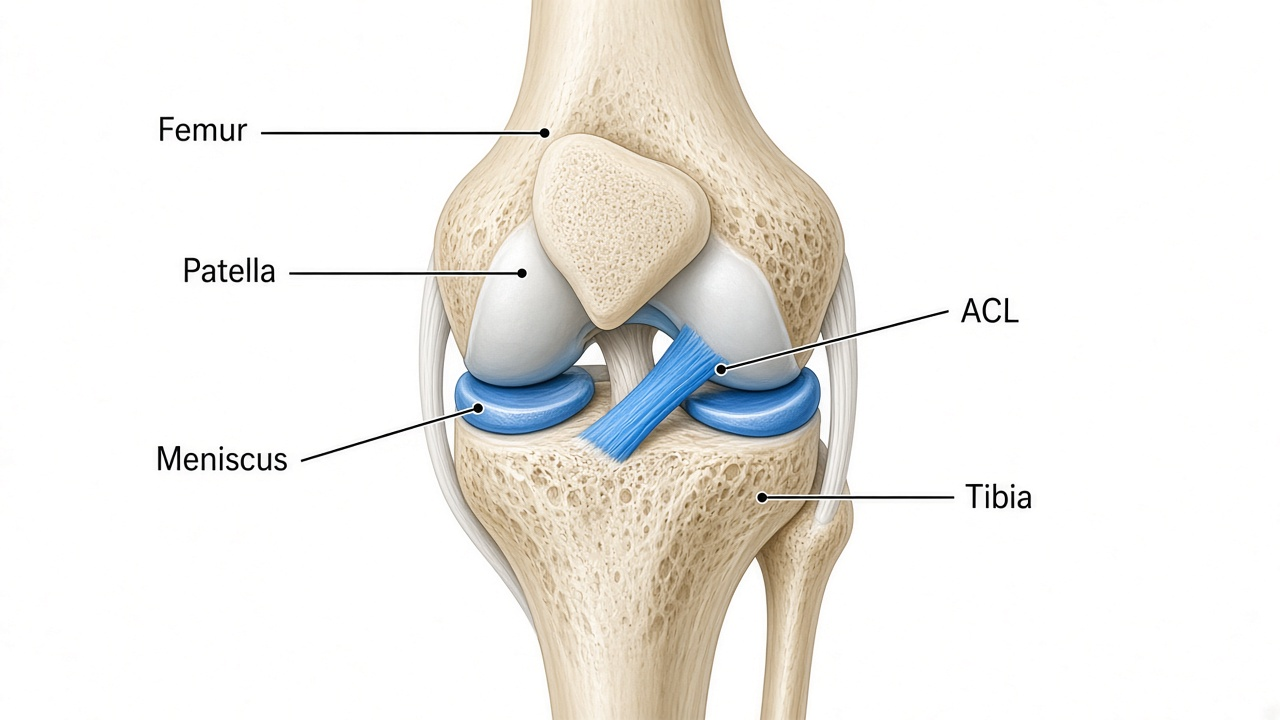
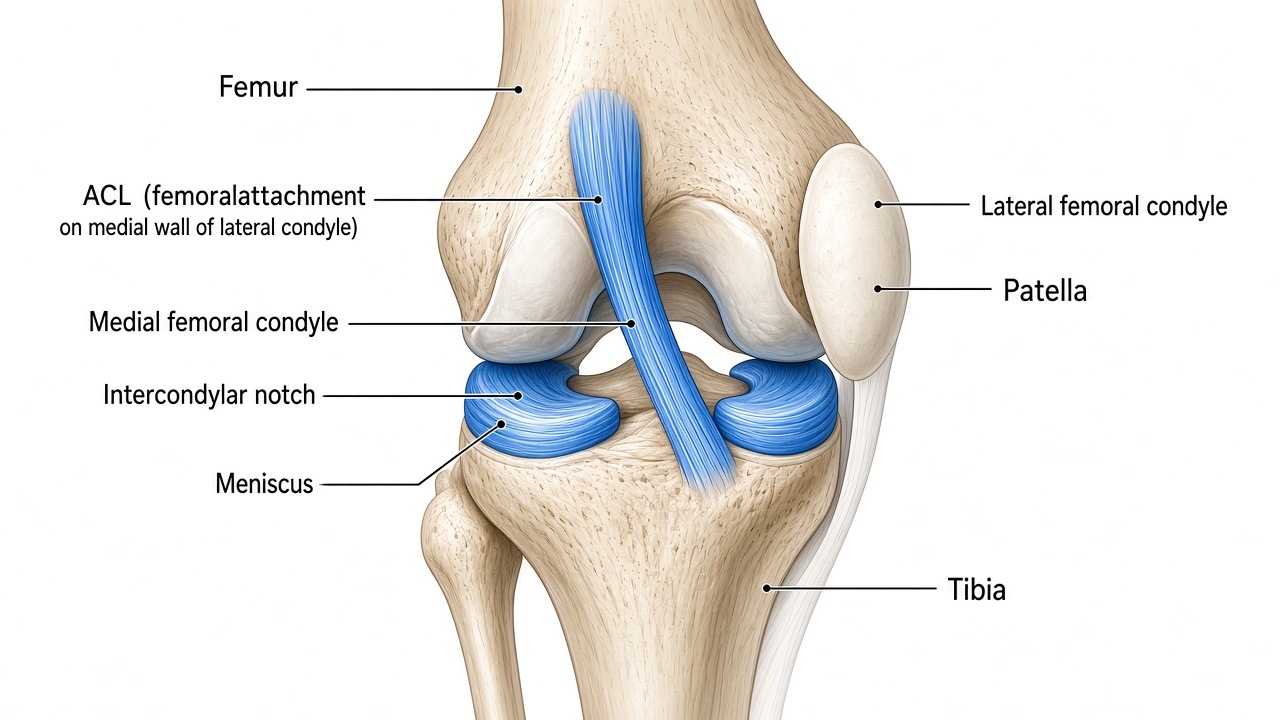
Correct ACL femoral footprint and proximal humerus anatomy in diagrams

diff --git a/index.html b/index.html
@@ -236,9 +236,9 @@ footer strong{color:#fff;display:block;margin-bottom:8px;font-weight:600}
 
 <section class="section" style="padding-top:24px;padding-bottom:0">
   <div style="display:grid;grid-template-columns:repeat(3,1fr);gap:14px" class="diagram-row">
-    <a href="knee.html" class="diagram"><img src="assets/diagram-knee.png" alt="Knee surgery in Dallas — joint diagram" width="400" height="320" loading="lazy"></a>
+    <a href="knee.html" class="diagram"><img src="assets/diagram-knee.png?v=3" alt="Knee surgery in Dallas — joint diagram" width="400" height="320" loading="lazy"></a>
     <a href="hip.html" class="diagram"><img src="assets/diagram-hip.png" alt="Hip surgery in Dallas — joint diagram" width="400" height="320" loading="lazy"></a>
-    <a href="shoulder.html" class="diagram"><img src="assets/diagram-shoulder.png" alt="Shoulder surgery in Dallas — joint diagram" width="400" height="320" loading="lazy"></a>
+    <a href="shoulder.html" class="diagram"><img src="assets/diagram-shoulder.png?v=3" alt="Shoulder surgery in Dallas — joint diagram" width="400" height="320" loading="lazy"></a>
   </div>
 </section>
 

diff --git a/shoulder.html b/shoulder.html
@@ -250,7 +250,7 @@ footer strong{color:#fff;display:block;margin-bottom:6px}
 
 <section class="section">
   <h2>What we operate on</h2>
-  <div class="diagram"><img src="assets/diagram-shoulder.png" alt="Shoulder joint diagram — ball, socket, cuff arc" width="960" height="768" loading="lazy"></div>
+  <div class="diagram"><img src="assets/diagram-shoulder.png?v=3" alt="Shoulder joint diagram — ball, socket, cuff arc" width="960" height="768" loading="lazy"></div>
   <p class="intro">Repair when tissue and goals allow. Replace — anatomic or reverse — when the joint is done.</p>
   <div class="grid"><article class="card"><h3>Rotator cuff repair</h3><p>Arthroscopic repair matched to tear pattern and your demand. Recovery is often slower than patients hope — strength and motion take deliberate rehab.</p>
         <p style="margin-top:12px"><strong style="color:var(--ink);font-size:13px">Recovery:</strong> <span>Sling protection early; meaningful strength often takes months. Demand level sets the finish line.</span></p>

diff --git a/knee.html b/knee.html
@@ -250,7 +250,7 @@ footer strong{color:#fff;display:block;margin-bottom:6px}
 
 <section class="section">
   <h2>What we operate on</h2>
-  <div class="diagram"><img src="assets/diagram-knee.png" alt="Knee joint diagram — femur, meniscus, tibia" width="960" height="768" loading="lazy"></div>
+  <div class="diagram"><img src="assets/diagram-knee.png?v=3" alt="Knee joint diagram — femur, meniscus, tibia" width="960" height="768" loading="lazy"></div>
   <p class="intro">Three operations define most of the knee work here.</p>
   <div class="grid"><article class="card"><h3>Meniscus repair / surgery</h3><p>Save tissue when the tear pattern allows. Trim when repair won’t hold. Often among the better-tolerated knee operations — still matched to your demand level.</p>
         <p style="margin-top:12px"><strong style="color:var(--ink);font-size:13px">Recovery:</strong> <span>Some patients bounce back within about a week; higher-demand return takes longer and follows healing.</span></p>
